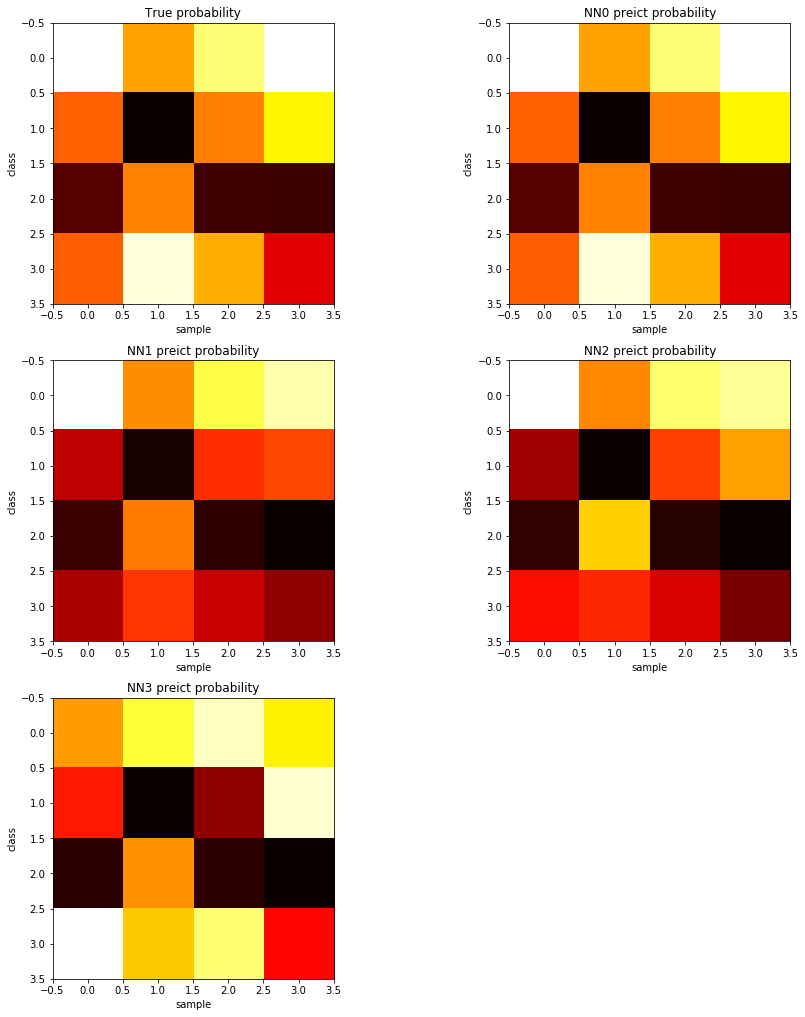
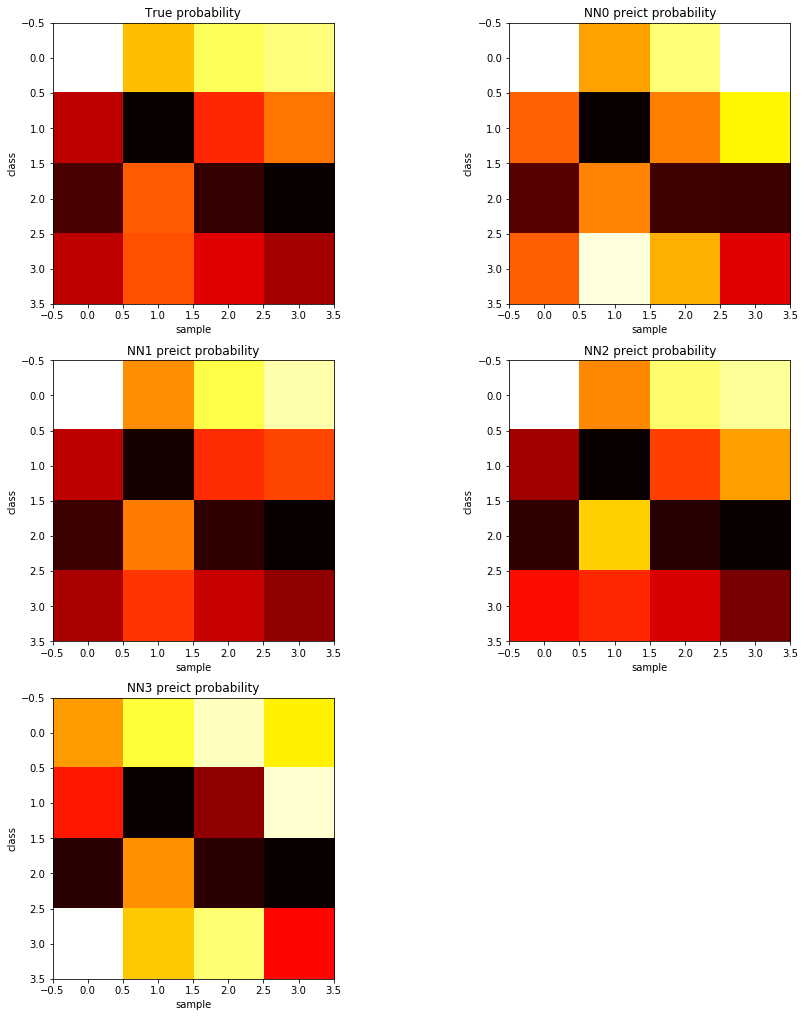
Site updated: 2017-10-31 15:21:38

Changed region(s): [[0.0621, 0.0, 0.4348, 0.3048]]

diff --git a/a-study-in-free-lunch.html b/a-study-in-free-lunch.html
@@ -75,7 +75,7 @@
 <link href="/css/main.css?v=5.1.0" rel="stylesheet" type="text/css" />
 
 
-  <meta name="keywords" content="模式识别,Python,神经网络,多元正态分布," />
+  <meta name="keywords" content="模式识别,神经网络,多元正态分布,Python," />
 
 
 
@@ -90,7 +90,7 @@
 
 
 <meta name="description" content="在完成的了神经网络的编程后，下面进行一个案例研究。具体的，下面会查看神经网络对于分类高度重合数据的效果，并对其结果进行讨论。">
-<meta name="keywords" content="模式识别,Python,神经网络,多元正态分布">
+<meta name="keywords" content="模式识别,神经网络,多元正态分布,Python">
 <meta property="og:type" content="article">
 <meta property="og:title" content="神经网络-一个案例的研究">
 <meta property="og:url" content="http://joshua.galaxy.42dna.com/a-study-in-free-lunch.html">
@@ -100,7 +100,7 @@
 <meta property="og:image" content="http://joshua.galaxy.42dna.com/uploads/a-study-in-free-lunch/pro_heatmap.png">
 <meta property="og:image" content="http://joshua.galaxy.42dna.com/uploads/a-study-in-free-lunch/pro_heatmap_all.png">
 <meta property="og:image" content="http://joshua.galaxy.42dna.com/uploads/a-study-in-free-lunch/test_predict_rate.png">
-<meta property="og:updated_time" content="2017-10-31T07:01:59.503Z">
+<meta property="og:updated_time" content="2017-10-31T07:21:26.870Z">
 <meta name="twitter:card" content="summary">
 <meta name="twitter:title" content="神经网络-一个案例的研究">
 <meta name="twitter:description" content="在完成的了神经网络的编程后，下面进行一个案例研究。具体的，下面会查看神经网络对于分类高度重合数据的效果，并对其结果进行讨论。">
@@ -378,13 +378,13 @@
 <p>下面查看在个别样本点下预测概率值与真实概率值的区别。</p>
 <figure class="highlight plain"><table><tr><td class="gutter"><pre><div class="line">1</div><div class="line">2</div><div class="line">3</div><div class="line">4</div><div class="line">5</div><div class="line">6</div><div class="line">7</div><div class="line">8</div><div class="line">9</div><div class="line">10</div><div class="line">11</div><div class="line">12</div><div class="line">13</div><div class="line">14</div><div class="line">15</div><div class="line">16</div><div class="line">17</div><div class="line">18</div><div class="line">19</div><div class="line">20</div><div class="line">21</div><div class="line">22</div><div class="line">23</div><div class="line">24</div><div class="line">25</div><div class="line">26</div><div class="line">27</div><div class="line">28</div><div class="line">29</div><div class="line">30</div></pre></td><td class="code"><pre><div class="line"># 生成4个样本点</div><div class="line">target = np.array([[0, 0, 0],</div><div class="line">                   [-1, 0, 1],</div><div class="line">                   [0.5, 0.5, 0],</div><div class="line">                   [0, 0, -1]])</div><div class="line">                   </div><div class="line"># 获取神经网络的预测概率值</div><div class="line">pre_p  = nn.get_p(target)</div><div class="line"></div><div class="line"># 获取真实分布概率值</div><div class="line"># 多元高斯概率值函数</div><div class="line">def multivariate_gaussian(x, mu, cov):</div><div class="line">    k = len(mu)</div><div class="line">    cov_det = np.linalg.det(cov)</div><div class="line">    cov_inv = np.linalg.inv(cov)</div><div class="line">    sub = x - mu</div><div class="line">    up = np.exp(-1.0 / 2 * sum(sub.dot(cov_inv) * sub))</div><div class="line">    down = np.sqrt((2*np.pi)**k * cov_det)</div><div class="line">    return up / down </div><div class="line"></div><div class="line"># 条件概率</div><div class="line">def get_multip_class_true_p(x):</div><div class="line">    return [multivariate_gaussian(x, mu=mu1, cov=cov1), </div><div class="line">            multivariate_gaussian(x, mu=mu2, cov=cov2),</div><div class="line">            multivariate_gaussian(x, mu=mu3, cov=cov3),</div><div class="line">            multivariate_gaussian(x, mu=mu4, cov=cov4)]</div><div class="line"> </div><div class="line">all_true_p = np.array([get_multip_class_true_p(target[i]) for i in range(4)]).T</div><div class="line"># 真实概率值</div><div class="line">target_p = all_true_p / all_true_p.sum(0)</div></pre></td></tr></table></figure>
 <p>得到的概率值数值为</p>
-<figure class="highlight plain"><table><tr><td class="gutter"><pre><div class="line">1</div><div class="line">2</div><div class="line">3</div><div class="line">4</div><div class="line">5</div><div class="line">6</div><div class="line">7</div><div class="line">8</div><div class="line">9</div><div class="line">10</div><div class="line">11</div><div class="line">12</div><div class="line">13</div><div class="line">14</div><div class="line">15</div><div class="line">16</div><div class="line">17</div><div class="line">18</div><div class="line">19</div><div class="line">20</div><div class="line">21</div><div class="line">22</div><div class="line">23</div><div class="line">24</div><div class="line">25</div><div class="line">26</div><div class="line">27</div></pre></td><td class="code"><pre><div class="line"># NN预测概率， 其中每一行代表一个数据点，每一列对应每个类别的概率值</div><div class="line">array([[ 0.43965423,  0.2807295 ,  0.38435841,  0.44024963],</div><div class="line">       [ 0.2412433 ,  0.03333006,  0.26054298,  0.33186004],</div><div class="line">       [ 0.07974024,  0.26068414,  0.06742546,  0.06392216],</div><div class="line">       [ 0.23936223,  0.4252563 ,  0.28767315,  0.16396817]])</div><div class="line"># 真实概率</div><div class="line">array([[ 0.57319913,  0.38239803,  0.4820328 ,  0.50071463],</div><div class="line">       [ 0.17383142,  0.02587597,  0.25656062,  0.32146516],</div><div class="line">       [ 0.07816171,  0.30006788,  0.06047473,  0.02511796],</div><div class="line">       [ 0.17480774,  0.29165812,  0.20093184,  0.15270225]])</div><div class="line"> </div><div class="line"> # 画热图</div><div class="line">plt.figure(figsize=(16, 32))</div><div class="line">plt.subplot(1, 2, 1)</div><div class="line">plt.title(&apos;NN predict probability&apos;)</div><div class="line">plt.imshow(pre_p, cmap=&apos;hot&apos;, interpolation=&apos;nearest&apos;)</div><div class="line">plt.xlabel(&apos;sample&apos;)</div><div class="line">plt.ylabel(&apos;class&apos;)</div><div class="line"></div><div class="line">plt.subplot(1, 2, 2)</div><div class="line">plt.title(&apos;True probability&apos;)</div><div class="line">plt.imshow(pre_p, cmap=&apos;hot&apos;, interpolation=&apos;nearest&apos;)</div><div class="line">plt.xlabel(&apos;sample&apos;)</div><div class="line">plt.ylabel(&apos;class&apos;)</div><div class="line">plt.show()</div><div class="line"></div><div class="line">plt.show()</div></pre></td></tr></table></figure>
+<figure class="highlight plain"><table><tr><td class="gutter"><pre><div class="line">1</div><div class="line">2</div><div class="line">3</div><div class="line">4</div><div class="line">5</div><div class="line">6</div><div class="line">7</div><div class="line">8</div><div class="line">9</div><div class="line">10</div><div class="line">11</div><div class="line">12</div><div class="line">13</div><div class="line">14</div><div class="line">15</div><div class="line">16</div><div class="line">17</div><div class="line">18</div><div class="line">19</div><div class="line">20</div><div class="line">21</div><div class="line">22</div><div class="line">23</div><div class="line">24</div><div class="line">25</div><div class="line">26</div><div class="line">27</div></pre></td><td class="code"><pre><div class="line"># NN预测概率， 其中每一行代表一个数据点，每一列对应每个类别的概率值</div><div class="line">array([[ 0.43965423,  0.2807295 ,  0.38435841,  0.44024963],</div><div class="line">       [ 0.2412433 ,  0.03333006,  0.26054298,  0.33186004],</div><div class="line">       [ 0.07974024,  0.26068414,  0.06742546,  0.06392216],</div><div class="line">       [ 0.23936223,  0.4252563 ,  0.28767315,  0.16396817]])</div><div class="line"># 真实概率</div><div class="line">array([[ 0.57319913,  0.38239803,  0.4820328 ,  0.50071463],</div><div class="line">       [ 0.17383142,  0.02587597,  0.25656062,  0.32146516],</div><div class="line">       [ 0.07816171,  0.30006788,  0.06047473,  0.02511796],</div><div class="line">       [ 0.17480774,  0.29165812,  0.20093184,  0.15270225]])</div><div class="line"> </div><div class="line"> # 画热图</div><div class="line">plt.figure(figsize=(16, 32))</div><div class="line">plt.subplot(1, 2, 1)</div><div class="line">plt.title(&apos;NN predict probability&apos;)</div><div class="line">plt.imshow(target_p, cmap=&apos;hot&apos;, interpolation=&apos;nearest&apos;)</div><div class="line">plt.xlabel(&apos;sample&apos;)</div><div class="line">plt.ylabel(&apos;class&apos;)</div><div class="line"></div><div class="line">plt.subplot(1, 2, 2)</div><div class="line">plt.title(&apos;True probability&apos;)</div><div class="line">plt.imshow(pre_p, cmap=&apos;hot&apos;, interpolation=&apos;nearest&apos;)</div><div class="line">plt.xlabel(&apos;sample&apos;)</div><div class="line">plt.ylabel(&apos;class&apos;)</div><div class="line">plt.show()</div><div class="line"></div><div class="line">plt.show()</div></pre></td></tr></table></figure>
 <p><img src="/uploads/a-study-in-free-lunch/pro_heatmap.png" alt="pro_heatmap"></p>
 <p>可以看出预测概率值和真实概率大小关系大致相同，但其中第二个样本点分类错误。</p>
 <h2 id="多层神经网络"><a href="#多层神经网络" class="headerlink" title="多层神经网络"></a>多层神经网络</h2><p>从前面的测试看出使用[3 X 3 X 4]的神经网络学习的准确率只有51%左右，下面改变网络隐藏层的节点数和结构学习新的神经网络看学习准确率的改变。</p>
 <p>分别使用上面的代码新生成3个神经网络，分别是nn1(结构为[3 X 10 X 4]， lambda=0.0001，迭代10000次)，nn2(结构为[3 X 10 X 10 X 4]， lambda=0.0001，迭代10000次)，nn3(结构为[3 X 50 X 50 X 4]， lambda=0.0001，迭代10000次)。它们学习准确率分别为 nn1 分类正确了57.57%训练样本，nn2分类正确58.5%, nn3 分类正确60.65%。</p>
 <p>下面是在4个样本点中，这4个分类器得到的概率值热图。</p>
-<figure class="highlight plain"><table><tr><td class="gutter"><pre><div class="line">1</div><div class="line">2</div><div class="line">3</div><div class="line">4</div><div class="line">5</div><div class="line">6</div><div class="line">7</div><div class="line">8</div><div class="line">9</div><div class="line">10</div><div class="line">11</div><div class="line">12</div><div class="line">13</div><div class="line">14</div><div class="line">15</div><div class="line">16</div><div class="line">17</div><div class="line">18</div><div class="line">19</div></pre></td><td class="code"><pre><div class="line">the_nn = [nn, nn1, nn2, nn3]</div><div class="line"></div><div class="line">plt.figure(figsize=(15, 30))</div><div class="line"></div><div class="line">plt.subplot(5, 2, 1)</div><div class="line">plt.title(&apos;True probability&apos;)</div><div class="line">plt.imshow(pre_p, cmap=&apos;hot&apos;, interpolation=&apos;nearest&apos;)</div><div class="line">plt.xlabel(&apos;sample&apos;)</div><div class="line">plt.ylabel(&apos;class&apos;)</div><div class="line"></div><div class="line">for i, nn_i in enumerate(the_nn):</div><div class="line">    plt.subplot(5, 2, i+2)</div><div class="line">    plt.title(&apos;NN%s preict probability&apos; % (i))</div><div class="line">    pre_tmp  = nn_i.get_p(target)</div><div class="line">    plt.imshow(pre_tmp, cmap=&apos;hot&apos;, interpolation=&apos;nearest&apos;)</div><div class="line">    plt.xlabel(&apos;sample&apos;)</div><div class="line">    plt.ylabel(&apos;class&apos;)</div><div class="line"></div><div class="line">plt.show()</div></pre></td></tr></table></figure>
+<figure class="highlight plain"><table><tr><td class="gutter"><pre><div class="line">1</div><div class="line">2</div><div class="line">3</div><div class="line">4</div><div class="line">5</div><div class="line">6</div><div class="line">7</div><div class="line">8</div><div class="line">9</div><div class="line">10</div><div class="line">11</div><div class="line">12</div><div class="line">13</div><div class="line">14</div><div class="line">15</div><div class="line">16</div><div class="line">17</div><div class="line">18</div><div class="line">19</div></pre></td><td class="code"><pre><div class="line">the_nn = [nn, nn1, nn2, nn3]</div><div class="line"></div><div class="line">plt.figure(figsize=(15, 30))</div><div class="line"></div><div class="line">plt.subplot(5, 2, 1)</div><div class="line">plt.title(&apos;True probability&apos;)</div><div class="line">plt.imshow(target_p, cmap=&apos;hot&apos;, interpolation=&apos;nearest&apos;)</div><div class="line">plt.xlabel(&apos;sample&apos;)</div><div class="line">plt.ylabel(&apos;class&apos;)</div><div class="line"></div><div class="line">for i, nn_i in enumerate(the_nn):</div><div class="line">    plt.subplot(5, 2, i+2)</div><div class="line">    plt.title(&apos;NN%s preict probability&apos; % (i))</div><div class="line">    pre_tmp  = nn_i.get_p(target)</div><div class="line">    plt.imshow(pre_tmp, cmap=&apos;hot&apos;, interpolation=&apos;nearest&apos;)</div><div class="line">    plt.xlabel(&apos;sample&apos;)</div><div class="line">    plt.ylabel(&apos;class&apos;)</div><div class="line"></div><div class="line">plt.show()</div></pre></td></tr></table></figure>
 <p><img src="/uploads/a-study-in-free-lunch/pro_heatmap_all.png" alt="pro_heatmap_all"></p>
 <p>虽然随着隐藏层节点数和层数的增加，学习的准确率得到提升(51% -&gt; 57% -&gt; 58% -&gt; 60%)，但是从概率预测值的如图来看，概率预测值和真实值相比并没变得更加贴近。其中藏层层数为[3]和[10X10]的神经网络得到的预测概率值与真实概率相似。从这些热图图也可以看出较复杂的神经网络并没有比最简单[3 X 3 X 4]的神经网络得到更优的概率值预测结果。</p>
 <h1 id="预测"><a href="#预测" class="headerlink" title="预测"></a>预测</h1><p>下面生成一组测试样本集（400个样本,每个类别100个），计算识别率。</p>
@@ -419,11 +419,11 @@
           
             <a href="/tags/模式识别/" rel="tag"># 模式识别</a>
           
-            <a href="/tags/Python/" rel="tag"># Python</a>
-          
             <a href="/tags/神经网络/" rel="tag"># 神经网络</a>
           
             <a href="/tags/多元正态分布/" rel="tag"># 多元正态分布</a>
+          
+            <a href="/tags/Python/" rel="tag"># Python</a>
           
         </div>
       

diff --git a/Neural-Networks.html b/Neural-Networks.html
@@ -75,7 +75,7 @@
 <link href="/css/main.css?v=5.1.0" rel="stylesheet" type="text/css" />
 
 
-  <meta name="keywords" content="模式识别,Python,神经网络," />
+  <meta name="keywords" content="模式识别,神经网络,Python," />
 
 
 
@@ -90,7 +90,7 @@
 
 
 <meta name="description" content="神经网络是人工智能和统计学习等领域研究的热点，其能将样本特征映射至高维空间进行分类/回归。本文梳理了神经网络的结构及其学习算法，并在Python下进行实现及测试。">
-<meta name="keywords" content="模式识别,Python,神经网络">
+<meta name="keywords" content="模式识别,神经网络,Python">
 <meta property="og:type" content="article">
 <meta property="og:title" content="神经网络结构、学习与实现">
 <meta property="og:url" content="http://joshua.galaxy.42dna.com/Neural-Networks.html">
@@ -479,9 +479,9 @@
           
             <a href="/tags/模式识别/" rel="tag"># 模式识别</a>
           
-            <a href="/tags/Python/" rel="tag"># Python</a>
-          
             <a href="/tags/神经网络/" rel="tag"># 神经网络</a>
+          
+            <a href="/tags/Python/" rel="tag"># Python</a>
           
         </div>
       

diff --git a/Parzen窗估计和K最近邻估计.html b/Parzen窗估计和K最近邻估计.html
@@ -507,9 +507,9 @@
       
         <div class="post-tags">
           
-            <a href="/tags/模式识别/" rel="tag"># 模式识别</a>
-          
             <a href="/tags/Octave/" rel="tag"># Octave</a>
+          
+            <a href="/tags/模式识别/" rel="tag"># 模式识别</a>
           
         </div>
       

diff --git a/css/main.css b/css/main.css
@@ -1698,7 +1698,7 @@ pre .javascript .function {
   width: 4px;
   height: 4px;
   border-radius: 50%;
-  background: #ffa633;
+  background: #8581da;
 }
 .links-of-blogroll {
   font-size: 13px;
